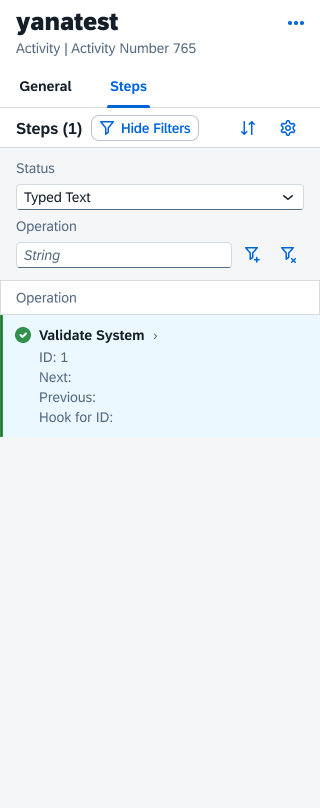
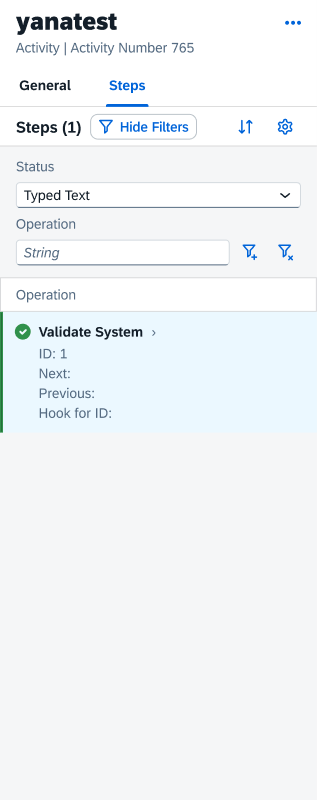
Clean up: fix PNG filenames, remove hardcoded paths from .claude agent/skill files

diff --git a/.claude/agents/sap-repair-pattern-detector.md b/.claude/agents/sap-repair-pattern-detector.md
@@ -4,7 +4,7 @@ description: Analyze plugin build exceptions against known repair patterns (P-00
 ---
 
 You are a SAP Figma plugin expert analyzing build failures for the SAP Figma Design Agent at:
-`/Users/C5408360/Downloads/Task to Figma SAP layouts components/`
+`~/Downloads/Task to Figma SAP layouts components/`
 
 ## When invoked
 

diff --git a/.claude/skills/sap-registry-update/SKILL.md b/.claude/skills/sap-registry-update/SKILL.md
@@ -4,7 +4,7 @@ description: Update a SAP component registry entry — edit the JSON, rebuild th
 ---
 
 You are maintaining the SAP Figma Design Agent registry at:
-`/Users/C5408360/Downloads/Task to Figma SAP layouts components/`
+`~/Downloads/Task to Figma SAP layouts components/`
 
 ## When invoked
 

diff --git a/.claude/skills/sap-spec-validate/SKILL.md b/.claude/skills/sap-spec-validate/SKILL.md
@@ -4,7 +4,7 @@ description: Validate a SAP Fiori screen spec JSON before pasting into the plugi
 ---
 
 You are the spec validator for the SAP Figma Design Agent at:
-`/Users/C5408360/Downloads/Task to Figma SAP layouts components/`
+`~/Downloads/Task to Figma SAP layouts components/`
 
 ## When invoked
 